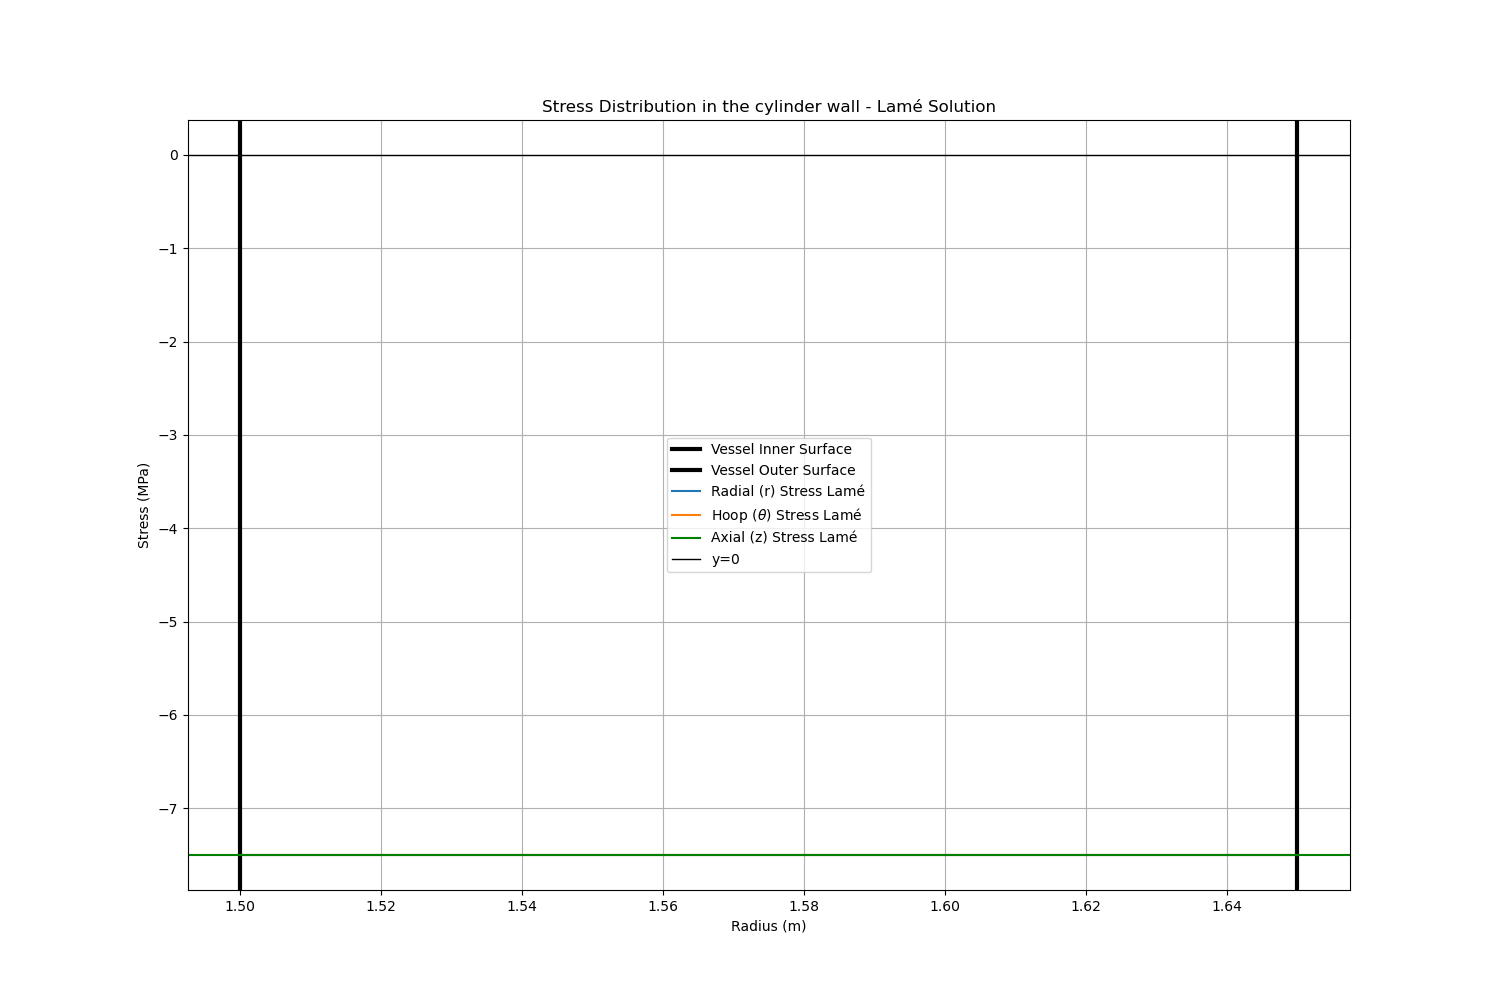
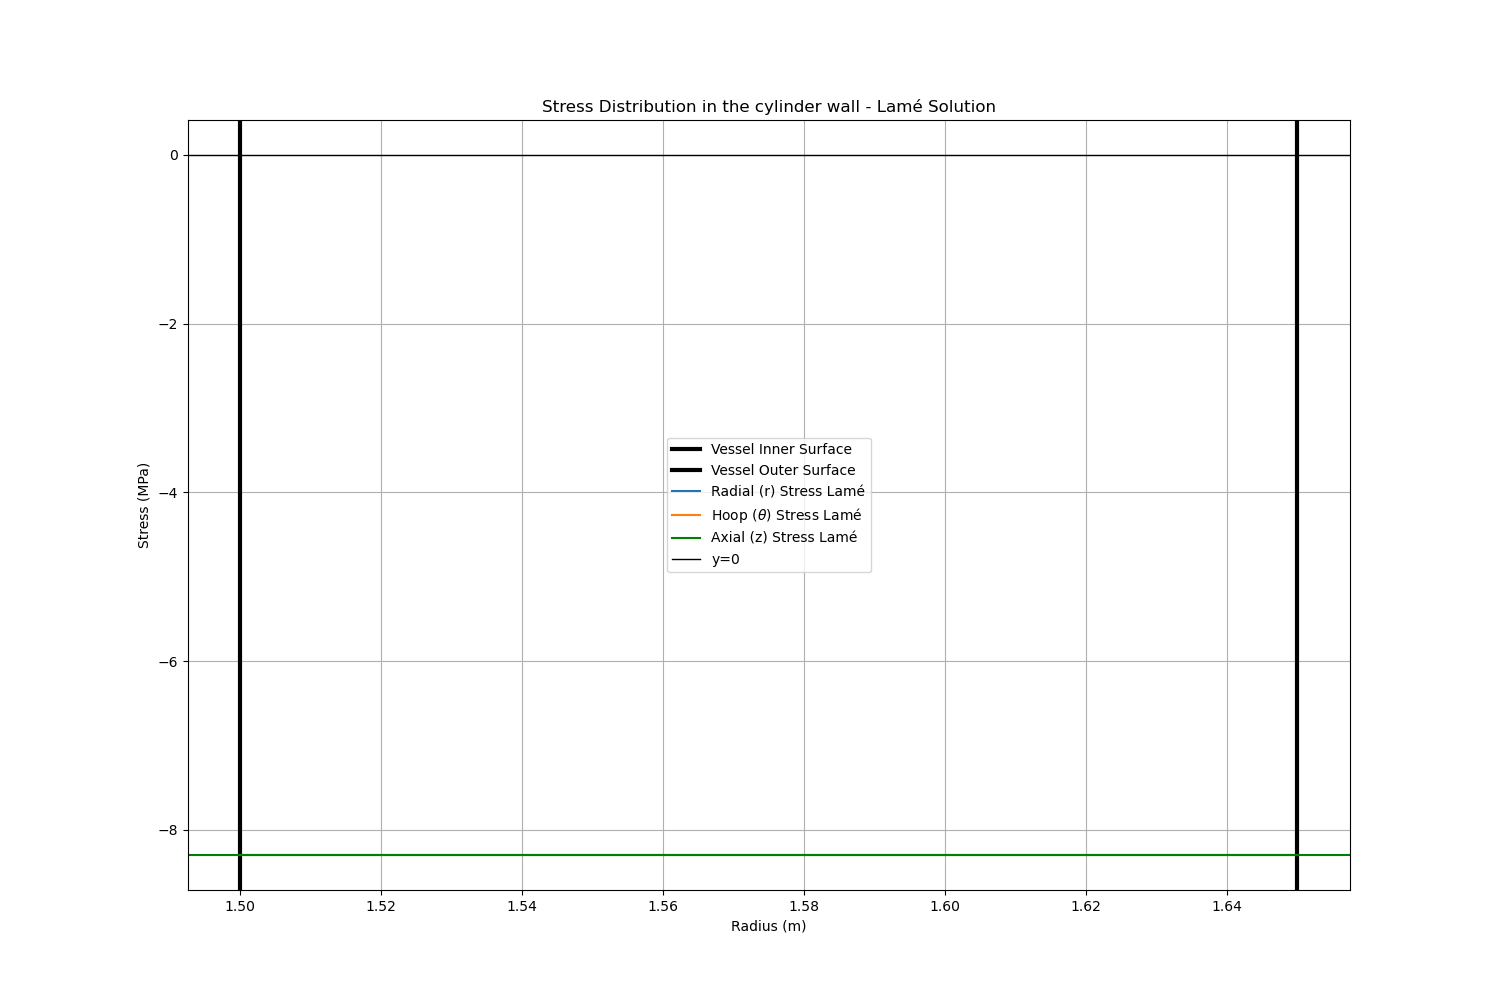
Removed duplicate strings

diff --git a/src/main.py b/src/main.py
@@ -1079,7 +1079,6 @@ if TS_flag == 0:
                 if creep_flag_V == 1:
                     output_lines.append("\n============================================================================================================================")
                     output_lines.append("WARNING: The maximum vessel temperature T = %.3f °C exceeds the creep threshold temperature of %d °C!" %(T_vessel_max - 273.15, T_creep))
-                    output_lines.append("Creep might occur in the vessel due to high temperatures. Either an additional thermal shield, a reduced thickness or both are required.")
                     output_lines.append("============================================================================================================================")
                 elif creep_flag_V == 0:
                     output_lines.append("\nThere is no risk of thermal creep occurring in the vessel.")
@@ -2787,7 +2786,6 @@ elif TS_flag == 1:
             if creep_flag_V == 1:
                 output_lines.append("\n============================================================================================================================")
                 output_lines.append("WARNING: The maximum vessel temperature T = %.3f °C exceeds the creep threshold temperature of %d °C!" %(T_vessel_max - 273.15, T_creep))
-                output_lines.append("Creep might occur in the vessel due to high temperatures. Either an additional thermal shield, a reduced thickness or both are required.")
                 output_lines.append("============================================================================================================================")
             elif creep_flag_V == 0:
                 output_lines.append("\nThere is no risk of thermal creep occurring in the vessel.")
@@ -2800,7 +2798,6 @@ elif TS_flag == 1:
             if creep_flag_S == 1:
                 output_lines.append("\n============================================================================================================================")
                 output_lines.append("WARNING: The maximum thermal shield temperature T = %.3f °C exceeds the creep threshold temperature of %d °C!" %(T_shield_max - 273.15, T_creep))
-                output_lines.append("Creep might occur in the thermal shield due to high temperatures. Either an additional thermal shield, a reduced thickness or both are required.")
                 output_lines.append("============================================================================================================================")
             elif creep_flag_S == 0:
                 output_lines.append("\nThere is no risk of thermal creep occurring in the thermal shield.")
